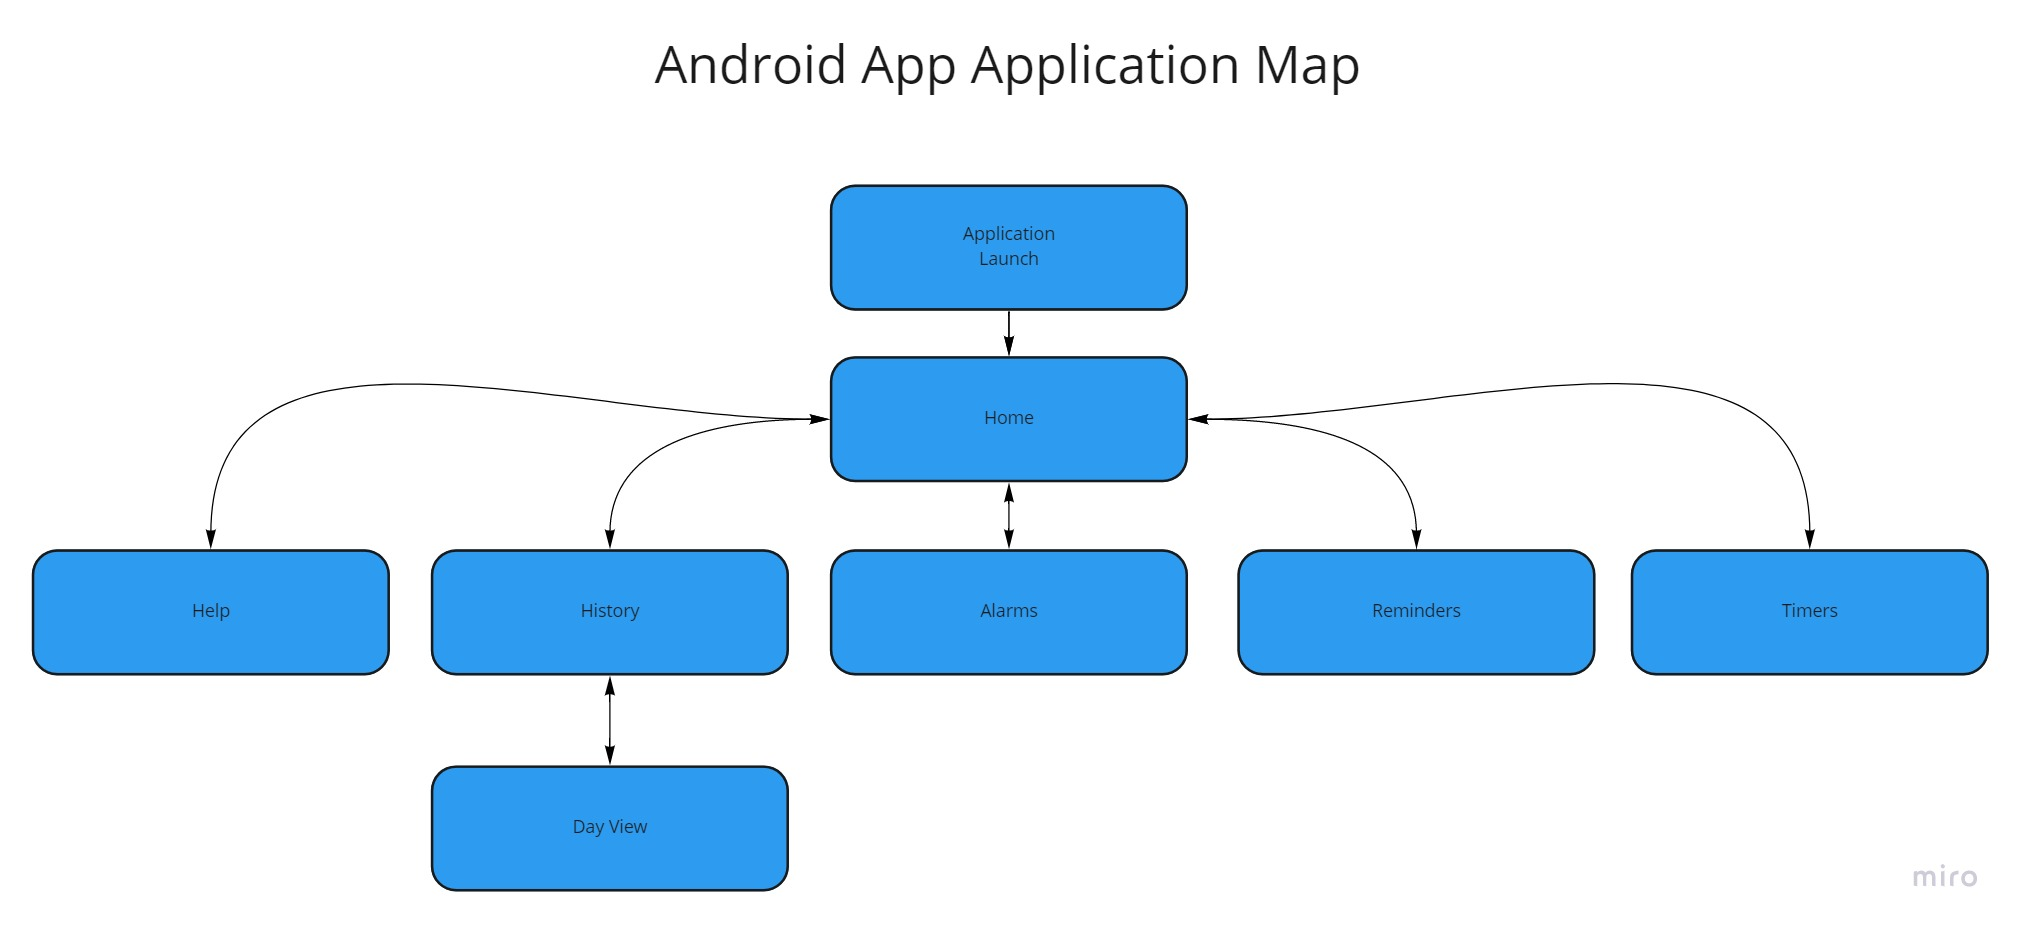
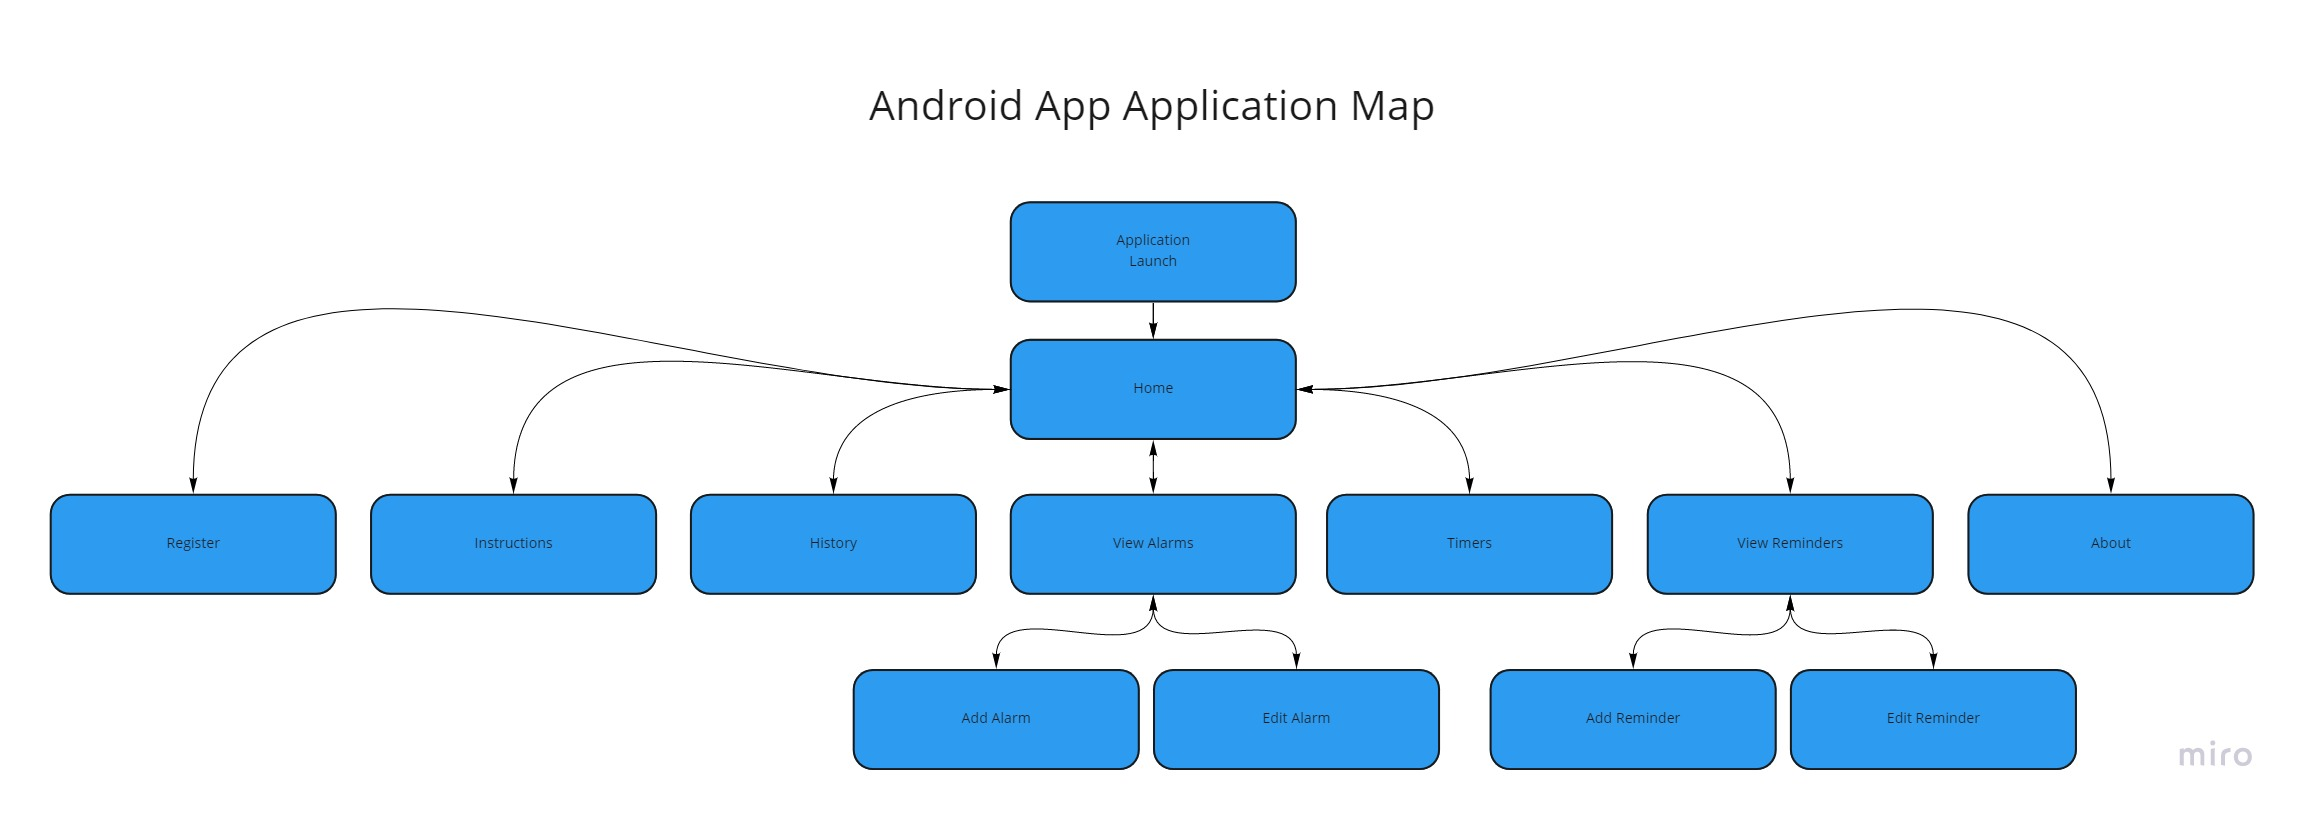
updated design section

diff --git a/Submission Website/design.html b/Submission Website/design.html
@@ -62,51 +62,54 @@
             <div class="principles">
                 <h3>Design Principles</h3>
                 <br>
-                <h4>MVC design principle</h4>
-                <p>Given that the app will have a UI, database interactions and functionality, the MVC architecture was
-                    a
-                    natural fit for the app
-                    where the UI will be managed by classes under the 'views' package, database quereies and structure
-                    through classes in the 'model' package
-                    and functionality through classes under the 'controllers' package. See the architecture diagram for
-                    a
-                    visual representation of this.
-                    Aside from this, no other design pattern was employed. This was because code was split across over
-                    80
-                    classes each of which was very different from the next.
-                    Even classes within the same packages would differ widely from each other containing vastly
-                    different
-                    methods taking different parameters and returning different
-                    values and also took different values in their constructors. This meant that the use of design
-                    patterns
-                    would only over complicate the system, defeating the
-                    point of design patterns. However, other good programming practises were employed. See details
-                    below.
-                    Makes it easier for developers to expand on and
-                    use existing functionality. For example, if they add a new feature which requires opening a URL,
-                    they
-                    can just use the openUrl method in MainController
-                    to do this without ever needing to understanding how this is done/implemented, hence abstracting
-                    away
-                    the existing complexity of the code and system.</p>
-                <h4>Seperation of Concern Principle</h4>
-                <p>We used this principle to ensure that each class was doing one main thing. This would ensure that
-                    code
-                    would be cleaner and easier to understand.
-                    Code is also easier to test, debug and fix. We went further and within each class, split the code
-                    into
-                    modules so that each module was doing one key thing.
-                    This also makes it easier for developers to add code.</p>
-                <h4>Modularised and Packaged Code</h4>
-                <p>Code is split into several well named packages and within each well named class we have well named
-                    method
-                    names which are concise yet descriptive.
-                    This makes it easy to find code, read code, understand code, navigate files and extend the system
-                    further.</p>
+				<ul>
+					<li>
+						<h4>MVC Design Principle</h4>
+						<p>Given that the app will have a UI, database interactions and functionality, the MVC architecture was
+							a
+							natural fit for the app,
+							where the UI will be managed by classes under the 'views' package, database quereies and structure
+							through classes in the 'model' package
+							and functionality through classes under the 'controllers' package. See the architecture diagram for
+							a
+							visual representation of this.
+							</p>
+						<p>	The MVC architecture also makes it easier for developers to expand on and
+							use existing functionality. For example, if they add a new feature which requires opening a URL,
+							they
+							can just use the openUrl method in MainController
+							to do this without ever needing to understanding how this is done or implemented, hence abstracting
+							away
+							the existing complexity of the code and system.
+							</p>
+						<p> Aside from this, no other design principle was employed. This was because code was split across over
+							80
+							classes each of which was very different from the next.
+							Even classes within the same packages would differ widely from each other containing vastly
+							different
+							methods taking different parameters and returning different
+							values. They also took different values in their constructors. This meant that the use of design
+							patterns
+							would only over complicate the system, defeating the
+							point of design patterns. However, other good programming practises were employed. See details
+							below.
+							</p>
+					</li>
+					<li>
+						<h4>Seperation of Concern Principle</h4>
+						<p>Using this principle, all code was split into logical packages, classes and methods.
+							Each class does one main thing. This ensures that
+							code
+							is cleaner, more readable and easier to understand.
+							This also made the code easier to test, debug and fix. 
+							</p>
+					</li>
+				</ul>
             </div>
             <div class="v-divider"></div>
             <div class="patterns">
                 <h3>Design Patterns</h3>
+				<br>
                 <h4>Creational</h4>
                 <ul>
                     <li>
@@ -159,77 +162,78 @@
             <img alt="App system architecture" src="assets/images/design/System%20Design%20-%20App.jpg">
             <img alt="App system architecture" src="assets/images/design/System%20Design%20-%20App.jpg" tabindex="-1">
         </div>
-        <div>
             <h2>UI Architecture</h2>
-            <p>All Activities are accessible from the MainActivity (home page). See details for each Activity below.</p>
+            <p>All Activities are accessible from the home page (Main Activity). See details for each Activity below.</p>
             <p>All Activities use the constraint layout provided by Android as it provided strong control over the
                 positioning of UI objects, more so than other
                 layouts such as RelativeLayout. All errors on Activities were relayed to users through Toasts. Speech
-                synthesis was also used where possible.</p>
-            <h3>MainActivity</h3>
-            <p>This Activity was the main page where users could use the Concierge voice assisstant and navigate to all
-                pages. To ensure the UI hierarchy was
-                as clean, minimal and easy to navigate as possible, we did not provide access to any Activity from every
-                Activity. We did provide 'BACK' buttons on each page
+                synthesis was also used where possible.
+				To ensure the UI hierarchy was
+                as clean, minimal and easy to navigate as possible, we did not provide access to Activities from other
+                Activities unless necessary. We did provide 'BACK' buttons on each page
                 to allows users to easily navigate back to the previous activity they were on. Each activity has a clear
-                title to ensure the user knows which page they are on.</p>
-            <p>This activity contains a scrollable menu of all the available activities and comes with a custom scroll
-                bar to make it clear to elderly user
+                title to ensure the user knows which page they are on. </p>
+            <h3>Main Activity</h3>
+            <p>This activity was the main page where users could use the Concierge voice assisstant and navigate to all
+                other pages. It was designed to be easy 
+				to use and allow the elderly to use the Voice Assistant easily.</p>
+            <p>The activity contains a scrollable menu of all the available activities and comes with a custom scroll
+                bar to make it clear to elderly users
                 that this is a scrollable menu. This has many benefits. For example, buttons and their text can be
                 bigger as we don't have to show all the buttons
                 on the page. It also means that developers can easily add new activities and add their buttons to the
                 scrollable menu without disrupting the existing
                 UI.</p>
-            <h3>ViewAlarmsActivity</h3>
+            <h3>ViewAlarms Activity</h3>
             <p>This activity allows user to view all their alarms in one place. We used the ListView to display all
                 alarms to the user and added a custom
                 scrollbar which means users can add as many alarms as they want and simply scroll through them should
-                they exceed the screen height. From here users can
-                click on the 'ADD NEW ALARM' button which will take them to the AddAlarmActivity. This page
-                automatically queries the local db to see the alarms
-                currently added by the user.</p>
-            <h3>AddAlarmActivity</h3>
+                they exceed the screen height. 
+				This activity automatically queries the local db to see the alarms currently added by the user.
+				From here, users can
+                click on the 'ADD NEW ALARM' button which will take them to the AddAlarmActivity.</p>
+            <h3>AddAlarm Activity</h3>
             <p>This activity allows users to add a new alarm by adding an alarm message, selecting a date using the
                 datepicker widget, selecting a time using
-                the timepicker widget and pressing save. The alarm will then be added to the local storage.
-                Users will then be taken back to the ViewAlarmsActivity will their alarm will now be displayed.</p>
-            <h3>EditAlarmActivity</h3>
+                the timepicker widget and pressing 'SAVE'. The alarm will then be added to the local storage.
+                Users will then be automatically taken back to the ViewAlarmsActivity where their alarm will now be 
+				displayed.</p>
+            <h3>EditAlarm Activity</h3>
             <p>Users can tap on an existing alarm and will be taken to this activity where they can edit the alarm
                 details, or instead, delete the alarm completely.
-                Whether they save or delete, they will then be taken back to ViewAlarmsActivity.</p>
-            <h3>ViewRemindersActivity</h3>
+                Whether they save or delete, they will then be taken back to ViewAlarmsActivity automatically.</p>
+            <h3>ViewReminders Activity</h3>
             <p>This activity allows user to view all their reminders in one place. We used the ListView to display all
                 reminders to the user and added a custom
                 scrollbar which means users can add as many reminders as they want and simply scroll through them should
-                they exceed the screen height. From here users can
-                click on the 'ADD NEW REMINDER' button which will take them to the AddReminderActivity. This page
-                automatically queries the local db to see the reminders
-                currently added by the user.</p>
-            <h3>AddReminderActivity</h3>
-            <p>This activity allows users to add a new reminder by adding a reminder message and pressing save. The
+                they exceed the screen height. This page
+                automatically queries the local db to see the reminders currently added by the user.From here users can
+                click on the 'ADD NEW REMINDER' button 
+				which will take them to the AddReminderActivity.</p>
+            <h3>AddReminder Activity</h3>
+            <p>This activity allows users to add a new reminder by adding a reminder message and pressing 'SAVE'. The
                 reminder will then be added to the local storage.
-                Users will then be taken back to the ViewRemindersActivity where their reminder will now be
+                Users will then be taken back to the ViewRemindersActivity automatically where their reminder will now be
                 displayed.</p>
-            <h3>EditReminderActivity</h3>
+            <h3>EditReminder Activity</h3>
             <p>Users can tap on an existing reminder and will be taken to this activity where they can edit the reminder
                 details, or instead, delete the reminder completely.
-                Whether they save or delete, they will then be taken back to ViewRemindersActivity.</p>
-            <h3>TimersActivity</h3>
+                Whether they save or delete, they will then be taken back to ViewRemindersActivity automatically.</p>
+            <h3>Timers Activity</h3>
             <p>Users can use the numberpicker widgets to set a timer. There are 3 numberwidegts, one for hours, one for
                 minutes and one for seconds. When the user
                 starts a timer, a 'PAUSE' button appears which they can use to pause the timer. Once they pause a timer,
                 the original 'START' button will appear again
                 which they can use to resume the timer from where it was paused.</p>
-            <h3>HistoryActivity</h3>
-            <p>Users can view their last seven day history on this Activity. History is only shown for Service API
-                requests. This activity too uses a ListView with
-                our custom scroll bar so no matter how long a user's seven day history is, they will be able to scroll
+            <h3>History Activity</h3>
+            <p>Users can view their last seven day history here. Their history is only shown for Service API
+                requests. This activity also uses a ListView with
+                our custom scroll bar, so no matter how long a user's seven day history is, they will be able to scroll
                 through it all.</p>
-            <h3>RegisterActivity</h3>
+            <h3>Register Activity</h3>
             <p>This activity is where users can enter their three registration codes to connect to their admin.</p>
-            <h3>AboutActivity</h3>
+            <h3>About Activity</h3>
             <p>This activity provides some information about the developers, clients and the product itself.</p>
-        </div>
     </section>
 
     <section class="web-app light-page-section">
